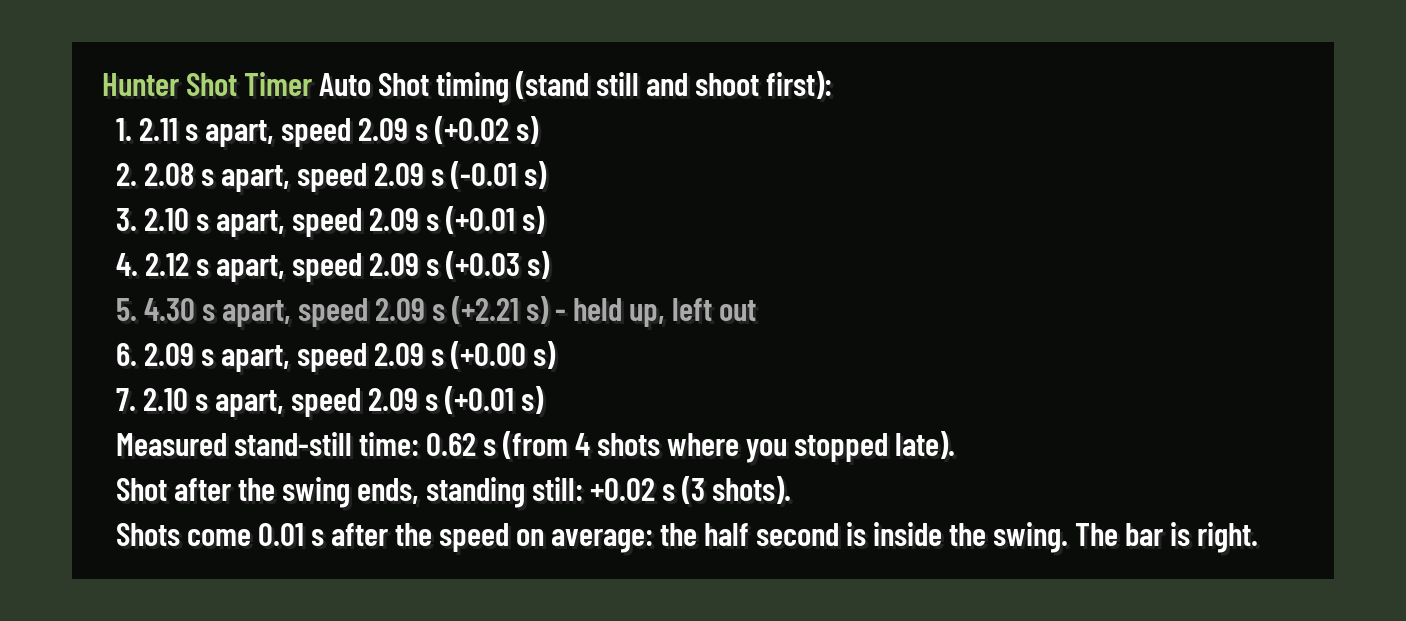
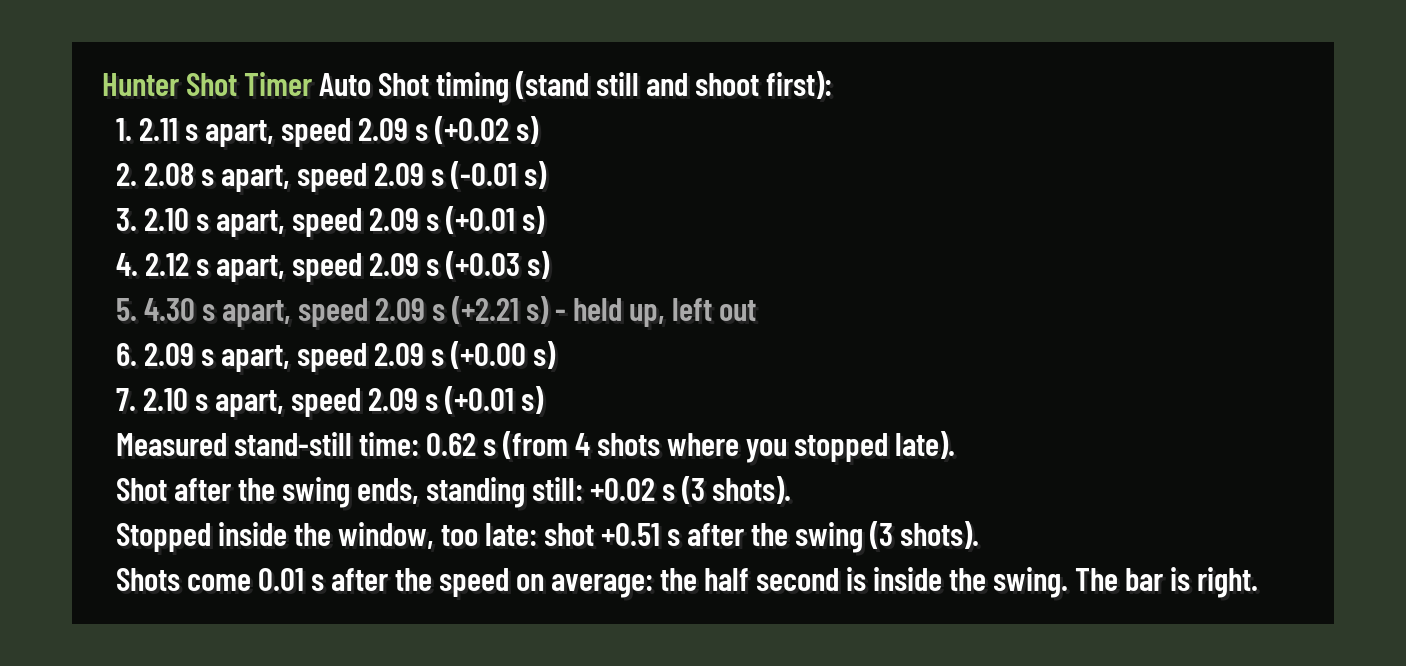
Previews: /hst timing shows the in-window delay

Changed region(s): [[0.0612, 0.0612, 0.9481, 0.9485]]

diff --git a/tools/render_previews.py b/tools/render_previews.py
@@ -500,7 +500,7 @@ def render_timing():
     lua.execute("function fillGaps(ns, list) ns.gaps = {} for i, g in ipairs(list) do ns.gaps[i] = { gap = g, speed = 2.09 } end end")
     lua.globals().fillGaps(ns, lua.table(2.11, 2.08, 2.10, 2.12, 4.30, 2.09, 2.10))
     lua.execute("function fillCalib(ns) ns.DEFAULTS = { windowExtra = 0, addPing = true } "
-                "ns.calib = { stand = { 0.61, 0.63, 0.62, 0.62 }, early = { 0.02, 0.01, 0.03 } } end")
+                "ns.calib = { stand = { 0.61, 0.63, 0.62, 0.62 }, early = { 0.02, 0.01, 0.03 }, missed = { 0.51, 0.5, 0.52 } } end")
     lua.globals().fillCalib(ns)
     lines = list(ns.TimingReport().values())
 
